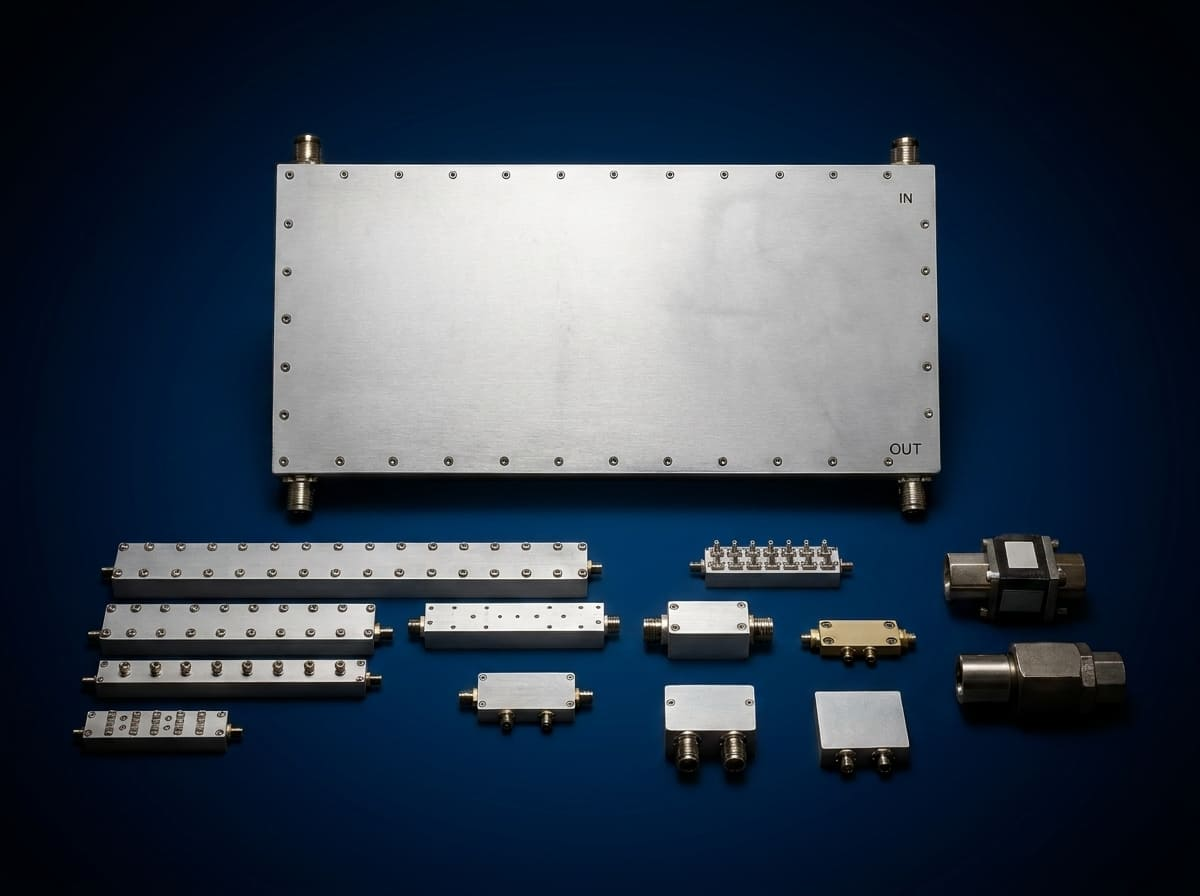
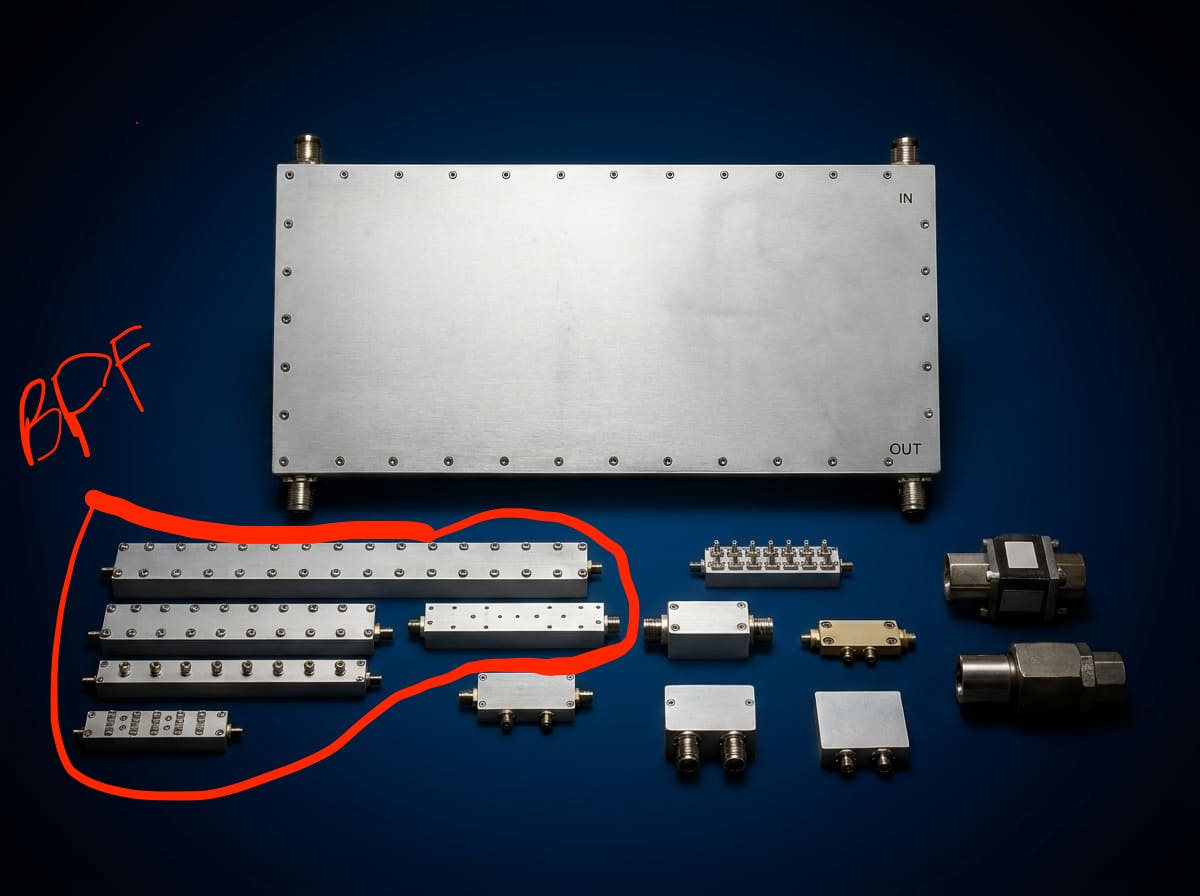
이미지 최적화, 모바일 사업분야 탭 수정, 회사소개서 다운로드 복구
- 이미지 압축: rf-sector.jpg 5.8MB→227KB, 모바일 사진 ~700KB→~230KB
- 인증서 이미지 lazy loading 추가
- 모바일 사업분야 탭 클릭 버그 수정 (드롭다운 없는 항목 navigate 처리)
- 회사소개서 다운로드 링크 복구 (Google Drive → 직접 PDF 다운)
- 특허증 이름 변경 (무선 휴대용 전자장치, 무선 안테나 장치)
- AI 생성 사진 폴더, .vscode 폴더 .gitignore 추가
- 구버전 AI 생성 RF 이미지 삭제 (rf-1~9.jpg)

diff --git a/style.css b/style.css
@@ -773,7 +773,7 @@ h5 {
     color: var(--clr-text);
 }
 
-.tl-desc p + p {
+.tl-desc p+p {
     margin-top: 0.5rem;
 }
 
@@ -1627,12 +1627,15 @@ h5 {
 .rf-cat-img--hpf {
     background-image: url("assets/RF 컴포넌트 파생 사진/HPF, LPF, BPF, BRF.jpg");
 }
+
 .rf-cat-img--combiner {
     background-image: url("assets/RF 컴포넌트 파생 사진/combner, multiplexer, duplexer.jpg");
 }
+
 .rf-cat-img--coupler {
     background-image: url("assets/RF 컴포넌트 파생 사진/3dB Hybrid Cpoupler,Dircetional Coupler, Divder.jpg");
 }
+
 .rf-cat-img--rrh {
     background-image: url("assets/RF 컴포넌트 파생 사진/RRH Filter.jpg");
 }
@@ -1989,7 +1992,7 @@ h5 {
 }
 
 .biz-card-sub {
-    color: rgba(255,255,255,0.7);
+    color: rgba(255, 255, 255, 0.7);
     font-size: 0.9rem;
     letter-spacing: 0.05em;
     margin-bottom: 1.5rem;
@@ -2036,16 +2039,34 @@ h5 {
 }
 
 @media (max-width: 768px) {
+    .biz-page-header {
+        padding: 2.5rem 0 2rem;
+    }
+
+    .biz-slogan {
+        font-size: 1rem;
+    }
+
+    .biz-intro {
+        font-size: 1rem;
+        margin-bottom: 2rem;
+    }
+
     .biz-cards-wrap {
         grid-template-columns: 1fr;
     }
 
     .biz-card {
-        height: 260px;
+        height: 240px;
     }
 
     .biz-card-title {
         font-size: 1.3rem;
+    }
+
+    .biz-card-more {
+        opacity: 1;
+        transform: translateY(0);
     }
 }
 

diff --git a/js/nav.js b/js/nav.js
@@ -65,8 +65,13 @@ export function initNav() {
     document.querySelectorAll('.nav-item').forEach(item => {
         item.addEventListener('click', e => {
             if (window.innerWidth <= 768 && e.target.classList.contains('nav-link')) {
-                e.preventDefault();
-                item.classList.toggle('open');
+                const hasDropdown = item.querySelector('.dropdown-menu');
+                if (hasDropdown) {
+                    e.preventDefault();
+                    item.classList.toggle('open');
+                } else {
+                    toggleMobileMenu();
+                }
             }
         });
     });

diff --git a/index.html b/index.html
@@ -208,7 +208,7 @@
                         <h1>회사소개</h1>
                         <span class="en-sub">Company Introduction</span>
                     </div>
-                    <a href="https://drive.google.com/drive/folders/18vTPDyW7MF2yY1doYRlDz9RSbUYCREkE?usp=sharing" target="_blank" class="btn btn-gold" style="white-space: nowrap;">
+                    <a href="./company-brochure.pdf" download="2026(주)신화테크놀러지_회사소개서.pdf" class="btn btn-gold" style="white-space: nowrap;">
                         <i data-lucide="download"></i> 회사소개서 다운로드
                     </a>
                 </div>
@@ -311,11 +311,11 @@
                         <!-- 윗 줄: 특허1, 특허2(예정), 벤처기업, 메인비즈, 이노비즈 -->
                         <div class="cert-doc">
                             <img src="./assets/cert-patent.png" alt="특허증" class="cert-img-real" loading="lazy">
-                            <span>특허증 1</span>
+                            <span>무선 휴대용 전자장치 특허</span>
                         </div>
                         <div class="cert-doc">
                             <img src="./assets/cert-patent2.png" alt="특허증 2" class="cert-img-real" loading="lazy">
-                            <span>특허증 2</span>
+                            <span>무선 안테나 장치 특허</span>
                         </div>
                         <div class="cert-doc">
                             <img src="./assets/cert-venture.png" alt="벤처기업확인서" class="cert-img-real" loading="lazy">